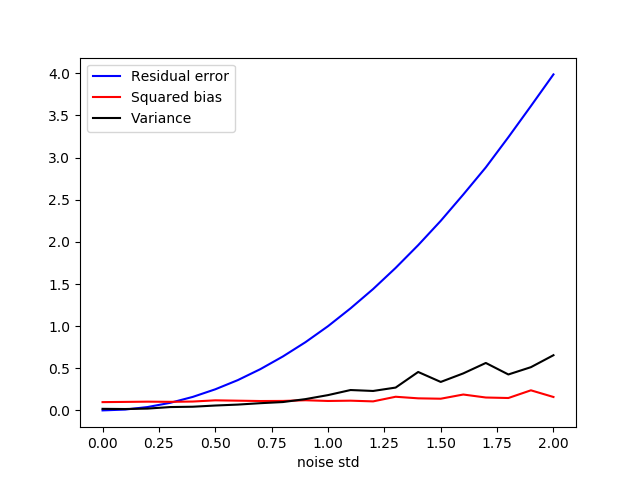
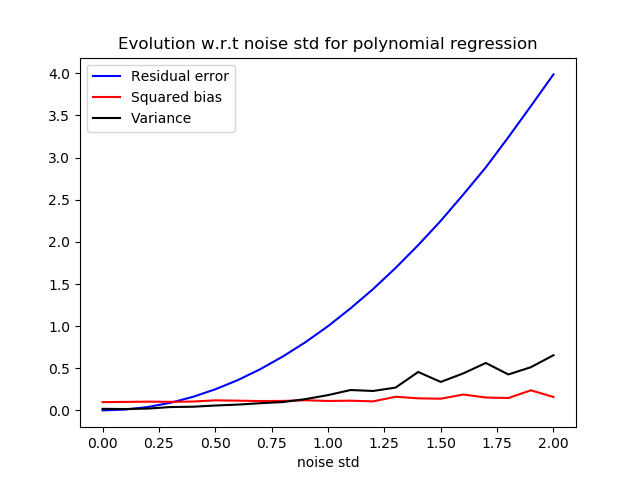
2d comment

Changed region(s): [[0.1875, 0.0625, 0.8438, 0.125]]

diff --git a/2d.py b/2d.py
@@ -33,7 +33,20 @@ X_TO_COMPUTE = np.linspace(-4, 4, NB_X)
 
 
 def get_y(x, noiseSTD):
-    return sin(x) + 0.5*sin(3*x) + random.gauss(0, noiseSTD)
+	"""
+    Get f(x) for the given x
+
+    Arguments:
+    ----------
+    - `x`: the value of x.
+    - 'noiseSTD': the standard deviation of epsilon
+
+    Return:
+    -------
+    - f(x)
+    """
+
+	return sin(x) + 0.5*sin(3*x) + random.gauss(0, noiseSTD)
 
 def generate_y_dataset(x, size, noiseSTD):
     """
@@ -58,7 +71,7 @@ def generate_y_dataset(x, size, noiseSTD):
     return y
 
 def generate_dataset(size, noiseSTD):
-	 """
+	"""
     Generate a dataset for a given x
 
     Arguments:
@@ -68,7 +81,8 @@ def generate_dataset(size, noiseSTD):
 
     Return:
     -------
-    - 'x': A list of y representing the dataset.
+    - 'x': A list containg the input values of the dataset
+    - 'y': A list containg the output values of the dataset
     """
 	x = []
 	y = []
@@ -132,44 +146,121 @@ def variance(x, regressors):
 
 
 def get_linear_fitted_regressor(x, y, poly):
+	""" 
+    Fit a linear polynomial regressor
+
+    Arguments:
+    ----------
+    - `x`: the input values.
+    - 'y': the output values
+    - `poly': a PolynomialFeatures object to transform the inputs into polynoms
+
+    Return:
+    -------
+    - the fitted linear polynomial regressor
+    """
+	
 	linearRegressor = LinearRegression()
+	# Generate the polynom fro mthe inputs
 	xLinear = poly.fit_transform(x)
 	linearRegressor.fit(xLinear, y)
 
 	return linearRegressor
 
 def get_nonlinear_fitted_regressor(x, y, complexity):
+	""" 
+    Fit a nonlinear k neighbours regressor
+
+    Arguments:
+    ----------
+    - `x`: the input values.
+    - 'y': the output values
+    - `complexity': the number of neighbours
+
+    Return:
+    -------
+    - the fitted nonlinear k neighbours regressor
+    """
+
 	nonLinearRegressor = KNeighborsRegressor(complexity)
 	nonLinearRegressor.fit(x, y)
 
 	return nonLinearRegressor
 
 def mean_res_error(noiseSTD):
+	""" 
+    Compute the expectation of the residual error over the input space x
+
+    Arguments:
+    ----------
+   - 'noiseSTD': the standard deviation of epsilon
+
+    Return:
+    -------
+    - the expectation of the residual error over the input space x
+    """
+
+    # Array of residual errors
 	resErrors = []
+
+	# Compute the residual error for a set of x
 	for x in X_TO_COMPUTE:
 		y = generate_y_dataset(x, SIZE_EY, noiseSTD)
 		resErrors.append(np.var(y))
 
+	# Compute the mean of the residual errors found
 	resErrors = np.array(resErrors)
 	return np.mean(resErrors)
 
 def mean_squared_bias(sizeLS, noiseSTD, linearComplexity, nonLinearComplexity):
+	""" 
+    Compute the expectation of the squared bias over the input space x
+
+    Arguments:
+    ----------
+   	- 'sizeLS': The size of the learning samples on which to fit the estimators
+   	- 'noiseSTD': the standard deviation of epsilon
+   	- 'linearComplexity': the complexity of the linear estimator
+   	- 'nonlinearComplexity': the complexity of the nonlinear estimator
+
+    Return:
+    -------
+    - the expectation of the squared bias over the input space x
+    """
+
 	poly = PolynomialFeatures(degree = linearComplexity)
 
+	# Array of squared bias for linear regressor
 	linearXSquaredBias = []
+
+	# Array of squared bias for nonlinear regressor
 	nonlinearXSquaredBias = []
+
+	# Compute the squared bias for a set of value of x
 	for x in X_TO_COMPUTE:
+
+		# Array of linear regressors
 		linearRegressors = []
+
+		# Array of nonlinear regressors
 		nonlinearRegressors = []
+
+		# dataset on which to compute the expectation of y
 		datasetX0 = generate_y_dataset(x, SIZE_EY, noiseSTD)
+
+		# Fit a set of regressors over different learning sets
 		for i in range(NB_LS):
 			trainX, trainY = generate_dataset(sizeLS, noiseSTD)
 			linearRegressors.append(get_linear_fitted_regressor(trainX, trainY, poly))
 			nonlinearRegressors.append(get_nonlinear_fitted_regressor(trainX, trainY, nonLinearComplexity))
 		
+		# Compute the squared bias for the linear regressors
 		linearXSquaredBias.append(bias(poly.fit_transform(x), datasetX0, linearRegressors))
+
+		# Compute the squared bias for the nonlinear regressors
 		nonlinearXSquaredBias.append(bias(x, datasetX0, nonlinearRegressors))
 
+	# Compute the mean of the squared bias over the values of x
 	linearXSquaredBias = np.array(linearXSquaredBias)
 	nonlinearXSquaredBias = np.array(nonlinearXSquaredBias)
 	linearSquaredBias = np.mean(linearXSquaredBias)
@@ -179,21 +270,51 @@ def mean_squared_bias(sizeLS, noiseSTD, linearComplexity, nonLinearComplexity):
 
 
 def mean_variance(sizeLS, noiseSTD, linearComplexity, nonLinearComplexity):
+	""" 
+    Compute the expectation of the variance over the input space x
+
+    Arguments:
+    ----------
+   	- 'sizeLS': The size of the learning samples on which to fit the estimators
+   	- 'noiseSTD': the standard deviation of epsilon
+   	- 'linearComplexity': the complexity of the linear estimator
+   	- 'nonlinearComplexity': the complexity of the nonlinear estimator
+
+    Return:
+    -------
+    - the expectation of the variance over the input space x
+    """
+
 	poly = PolynomialFeatures(degree = linearComplexity)
 
+	# Array of variance for linear regressor
 	linearXVariance = []
+
+	# Array of variance for nonlinear regressor
 	nonlinearXVariance = []
+
+	# Compute the variance for a set of value of x
 	for x in X_TO_COMPUTE:
+
+		# Array of linear regressors
 		linearRegressors = []
+
+		# Array of nonlinear regressors
 		nonlinearRegressors = []
+
+		# Fit a set of regressors over different learning sets
 		for i in range(NB_LS):
 			trainX, trainY = generate_dataset(sizeLS, noiseSTD)
 			linearRegressors.append(get_linear_fitted_regressor(trainX, trainY, poly))
 			nonlinearRegressors.append(get_nonlinear_fitted_regressor(trainX, trainY, nonLinearComplexity))
 		
+		# Compute the variance for the linear regressors
 		linearXVariance.append(variance(poly.fit_transform(x), linearRegressors))
+
+		# Compute the variance for the nonlinear regressors
 		nonlinearXVariance.append(variance(x, nonlinearRegressors))
 
+	# Compute the mean of the variance over the values of x
 	linearXVariance = np.array(linearXVariance)
 	nonlinearXVariance = np.array(nonlinearXVariance)
 	linearVariance = np.mean(linearXVariance)
@@ -202,125 +323,156 @@ def mean_variance(sizeLS, noiseSTD, linearComplexity, nonLinearComplexity):
 	return linearVariance, nonlinearVariance
 	
 
-#make size vary
 def plot_size():
+	""" 
+    Plot the value of the residual error, the squared bias and the variance for
+    different learning sample size 
+    """
 	
+	# Compute residual errors
 	resError = [mean_res_error(REFERENCE_STD)]*len(SIZES_LS)
+	
+	# Arrays comtaining values for different learning sample size
 	linearSquaredBias = []
 	nonLinearSquaredBias = []
 	linearVariance = []
 	nonLinearVariance = []
 	
+	# Compute squared bias and variance for different learning sample size
 	for sizeLS in SIZES_LS:
-		print(sizeLS)
+
+		# Compute squared bias
 		tmpLinearSquaredBias, tmpNonLinearSquaredBias = mean_squared_bias(sizeLS, REFERENCE_STD, LINEAR_REFERENCE_COMPLEXITY, NONLINEAR_REFERENCE_COMPLEXITY)
 		linearSquaredBias.append(tmpLinearSquaredBias)
 		nonLinearSquaredBias.append(tmpNonLinearSquaredBias)
 
+		# Compute variance
 		tmpLinearVariance, tmpNonLinearVariance = mean_variance(sizeLS, REFERENCE_STD, LINEAR_REFERENCE_COMPLEXITY, NONLINEAR_REFERENCE_COMPLEXITY)
 		linearVariance.append(tmpLinearVariance)
 		nonLinearVariance.append(tmpNonLinearVariance)
 
+	# Plot statistics for the linear regressor
 	plt.figure()
-	plt.title("evolution w.r.t size for polynomial regression")
+	plt.title("Evolution w.r.t size for polynomial regression")
 	plt.plot(SIZES_LS, resError, "b-", label = "Residual error")
 	plt.plot(SIZES_LS, linearSquaredBias, "r-", label = "Squared bias")
 	plt.plot(SIZES_LS, linearVariance, "k-", label = "Variance")
 	plt.legend()
 	plt.xlabel("size")
-	plt.savefig(PLOT_FOLDER + "linearSize")
+	plt.savefig(PLOT_FOLDER + "linearSize.eps")
 
+	# Plot statistics for the nonlinear regressor
 	plt.figure()
-	plt.title("evolution w.r.t size for knn regression")
+	plt.title("Evolution w.r.t size for knn regression")
 	plt.plot(SIZES_LS, resError, "b-", label = "Residual error")
 	plt.plot(SIZES_LS, nonLinearSquaredBias, "r-", label = "Squared bias")
 	plt.plot(SIZES_LS, nonLinearVariance, "k-", label = "Variance")
 	plt.legend()
 	plt.xlabel("size")
-	plt.savefig(PLOT_FOLDER + "nonLinearSize")
+	plt.savefig(PLOT_FOLDER + "nonLinearSize.eps")
 	
 
-#make noise std vary
 def plot_std():
+	""" 
+    Plot the value of the residual error, the squared bias and the variance for
+    different values of the standard deviation of epsilon
+    """
+
+	# Arrays comtaining values for different learning sample size
 	resError = []
 	linearSquaredBias = []
 	nonLinearSquaredBias = []
 	linearVariance = []
 	nonLinearVariance = []
 	
+	# Compute statistics for different values of the standard deviation of epsilon
 	for std in STDS:
-		print(std)
+
+		# Compute residual errors
 		resError.append(mean_res_error(std))
 
+		# Compute squared bias
 		tmpLinearSquaredBias, tmpNonLinearSquaredBias = mean_squared_bias(REFERENCE_SIZE_LS, std, LINEAR_REFERENCE_COMPLEXITY, NONLINEAR_REFERENCE_COMPLEXITY)
 		linearSquaredBias.append(tmpLinearSquaredBias)
 		nonLinearSquaredBias.append(tmpNonLinearSquaredBias)
 
+		# Compute variance
 		tmpLinearVariance, tmpNonLinearVariance = mean_variance(REFERENCE_SIZE_LS, std, LINEAR_REFERENCE_COMPLEXITY, NONLINEAR_REFERENCE_COMPLEXITY)
 		linearVariance.append(tmpLinearVariance)
 		nonLinearVariance.append(tmpNonLinearVariance)
 
+	# Plot statistics for the linear regressor
 	plt.figure()
-	plt.title("evolution w.r.t noise std for polynomial regression")
+	plt.title("Evolution w.r.t noise std for polynomial regression")
 	plt.plot(STDS, resError, "b-", label = "Residual error")
 	plt.plot(STDS, linearSquaredBias, "r-", label = "Squared bias")
 	plt.plot(STDS, linearVariance, "k-", label = "Variance")
 	plt.legend()
 	plt.xlabel("noise std")
-	plt.savefig(PLOT_FOLDER + "linearSTD")
+	plt.savefig(PLOT_FOLDER + "linearSTD.eps")
 
+	# Plot statistics for the nonlinear regressor
 	plt.figure()
-	plt.title("evolution w.r.t noise std for knn regression")
+	plt.title("Evolution w.r.t noise std for knn regression")
 	plt.plot(STDS, resError, "b-", label = "Residual error")
 	plt.plot(STDS, nonLinearSquaredBias, "r-", label = "Squared bias")
 	plt.plot(STDS, nonLinearVariance, "k-", label = "Variance")
 	plt.legend()
 	plt.xlabel("noise std")
-	plt.savefig(PLOT_FOLDER + "nonLinearSTD")
+	plt.savefig(PLOT_FOLDER + "nonLinearSTD.eps")
 
-#make complexity vary
+
 def plot_complexity():
+	""" 
+    Plot the value of the residual error, the squared bias and the variance for
+    different values of the regressors complexity
+    """
+
+    # Compute residual errors
 	resError = [mean_res_error(REFERENCE_STD)]*min(len(LINEAR_COMPLEXITY), len(NONLINEAR_COMPLEXITY))
+	
+	# Arrays comtaining values for different learning sample size
 	linearSquaredBias = []
 	nonLinearSquaredBias = []
 	linearVariance = []
 	nonLinearVariance = []
 	
+	# Compute squared bias and variance for different complexity of the regressors
 	for i in range(min(len(LINEAR_COMPLEXITY), len(NONLINEAR_COMPLEXITY))):
-		print(i)
+
+		# Compute squared bias
 		tmpLinearSquaredBias, tmpNonLinearSquaredBias = mean_squared_bias(REFERENCE_SIZE_LS, REFERENCE_STD, LINEAR_COMPLEXITY[i], NONLINEAR_COMPLEXITY[i])
 		linearSquaredBias.append(tmpLinearSquaredBias)
 		nonLinearSquaredBias.append(tmpNonLinearSquaredBias)
 
+		# Compute variance
 		tmpLinearVariance, tmpNonLinearVariance = mean_variance(REFERENCE_SIZE_LS, REFERENCE_STD, LINEAR_COMPLEXITY[i], NONLINEAR_COMPLEXITY[i])
 		linearVariance.append(tmpLinearVariance)
 		nonLinearVariance.append(tmpNonLinearVariance)
 
+	# Plot statistics for the linear regressor
 	plt.figure()
-	plt.title("evolution w.r.t polynom degree for polynomial regression")
+	plt.title("Evolution w.r.t polynom degree for polynomial regression")
 	plt.plot(LINEAR_COMPLEXITY, resError, "b-", label = "Residual error")
 	plt.plot(LINEAR_COMPLEXITY, linearSquaredBias, "r-", label = "Squared bias")
 	plt.plot(LINEAR_COMPLEXITY, linearVariance, "k-", label = "Variance")
 	plt.legend()
 	plt.xlabel("polynom degree")
-	plt.savefig(PLOT_FOLDER + "linearComplexity")
+	plt.savefig(PLOT_FOLDER + "linearComplexity.eps")
 
+	# Plot statistics for the nonlinear regressor
 	plt.figure()
-	plt.title("evolution w.r.t number of neighbours for knn regression")
+	plt.title("Evolution w.r.t number of neighbours for knn regression")
 	plt.plot(NONLINEAR_COMPLEXITY, resError, "b-", label = "Residual error")
 	plt.plot(NONLINEAR_COMPLEXITY, nonLinearSquaredBias, "r-", label = "Squared bias")
 	plt.plot(NONLINEAR_COMPLEXITY, nonLinearVariance, "k-", label = "Variance")
 	plt.legend()
 	plt.xlabel("number of neighbours")
-	plt.savefig(PLOT_FOLDER + "nonLinearComplexity")
+	plt.savefig(PLOT_FOLDER + "nonLinearComplexity.eps")
 
 
 if __name__ == "__main__":
 	random.seed(11)
-	print("size \n")
 	plot_size()
-	print("std \n")
 	plot_std()
-	print("complexity \n")
 	plot_complexity()
-
